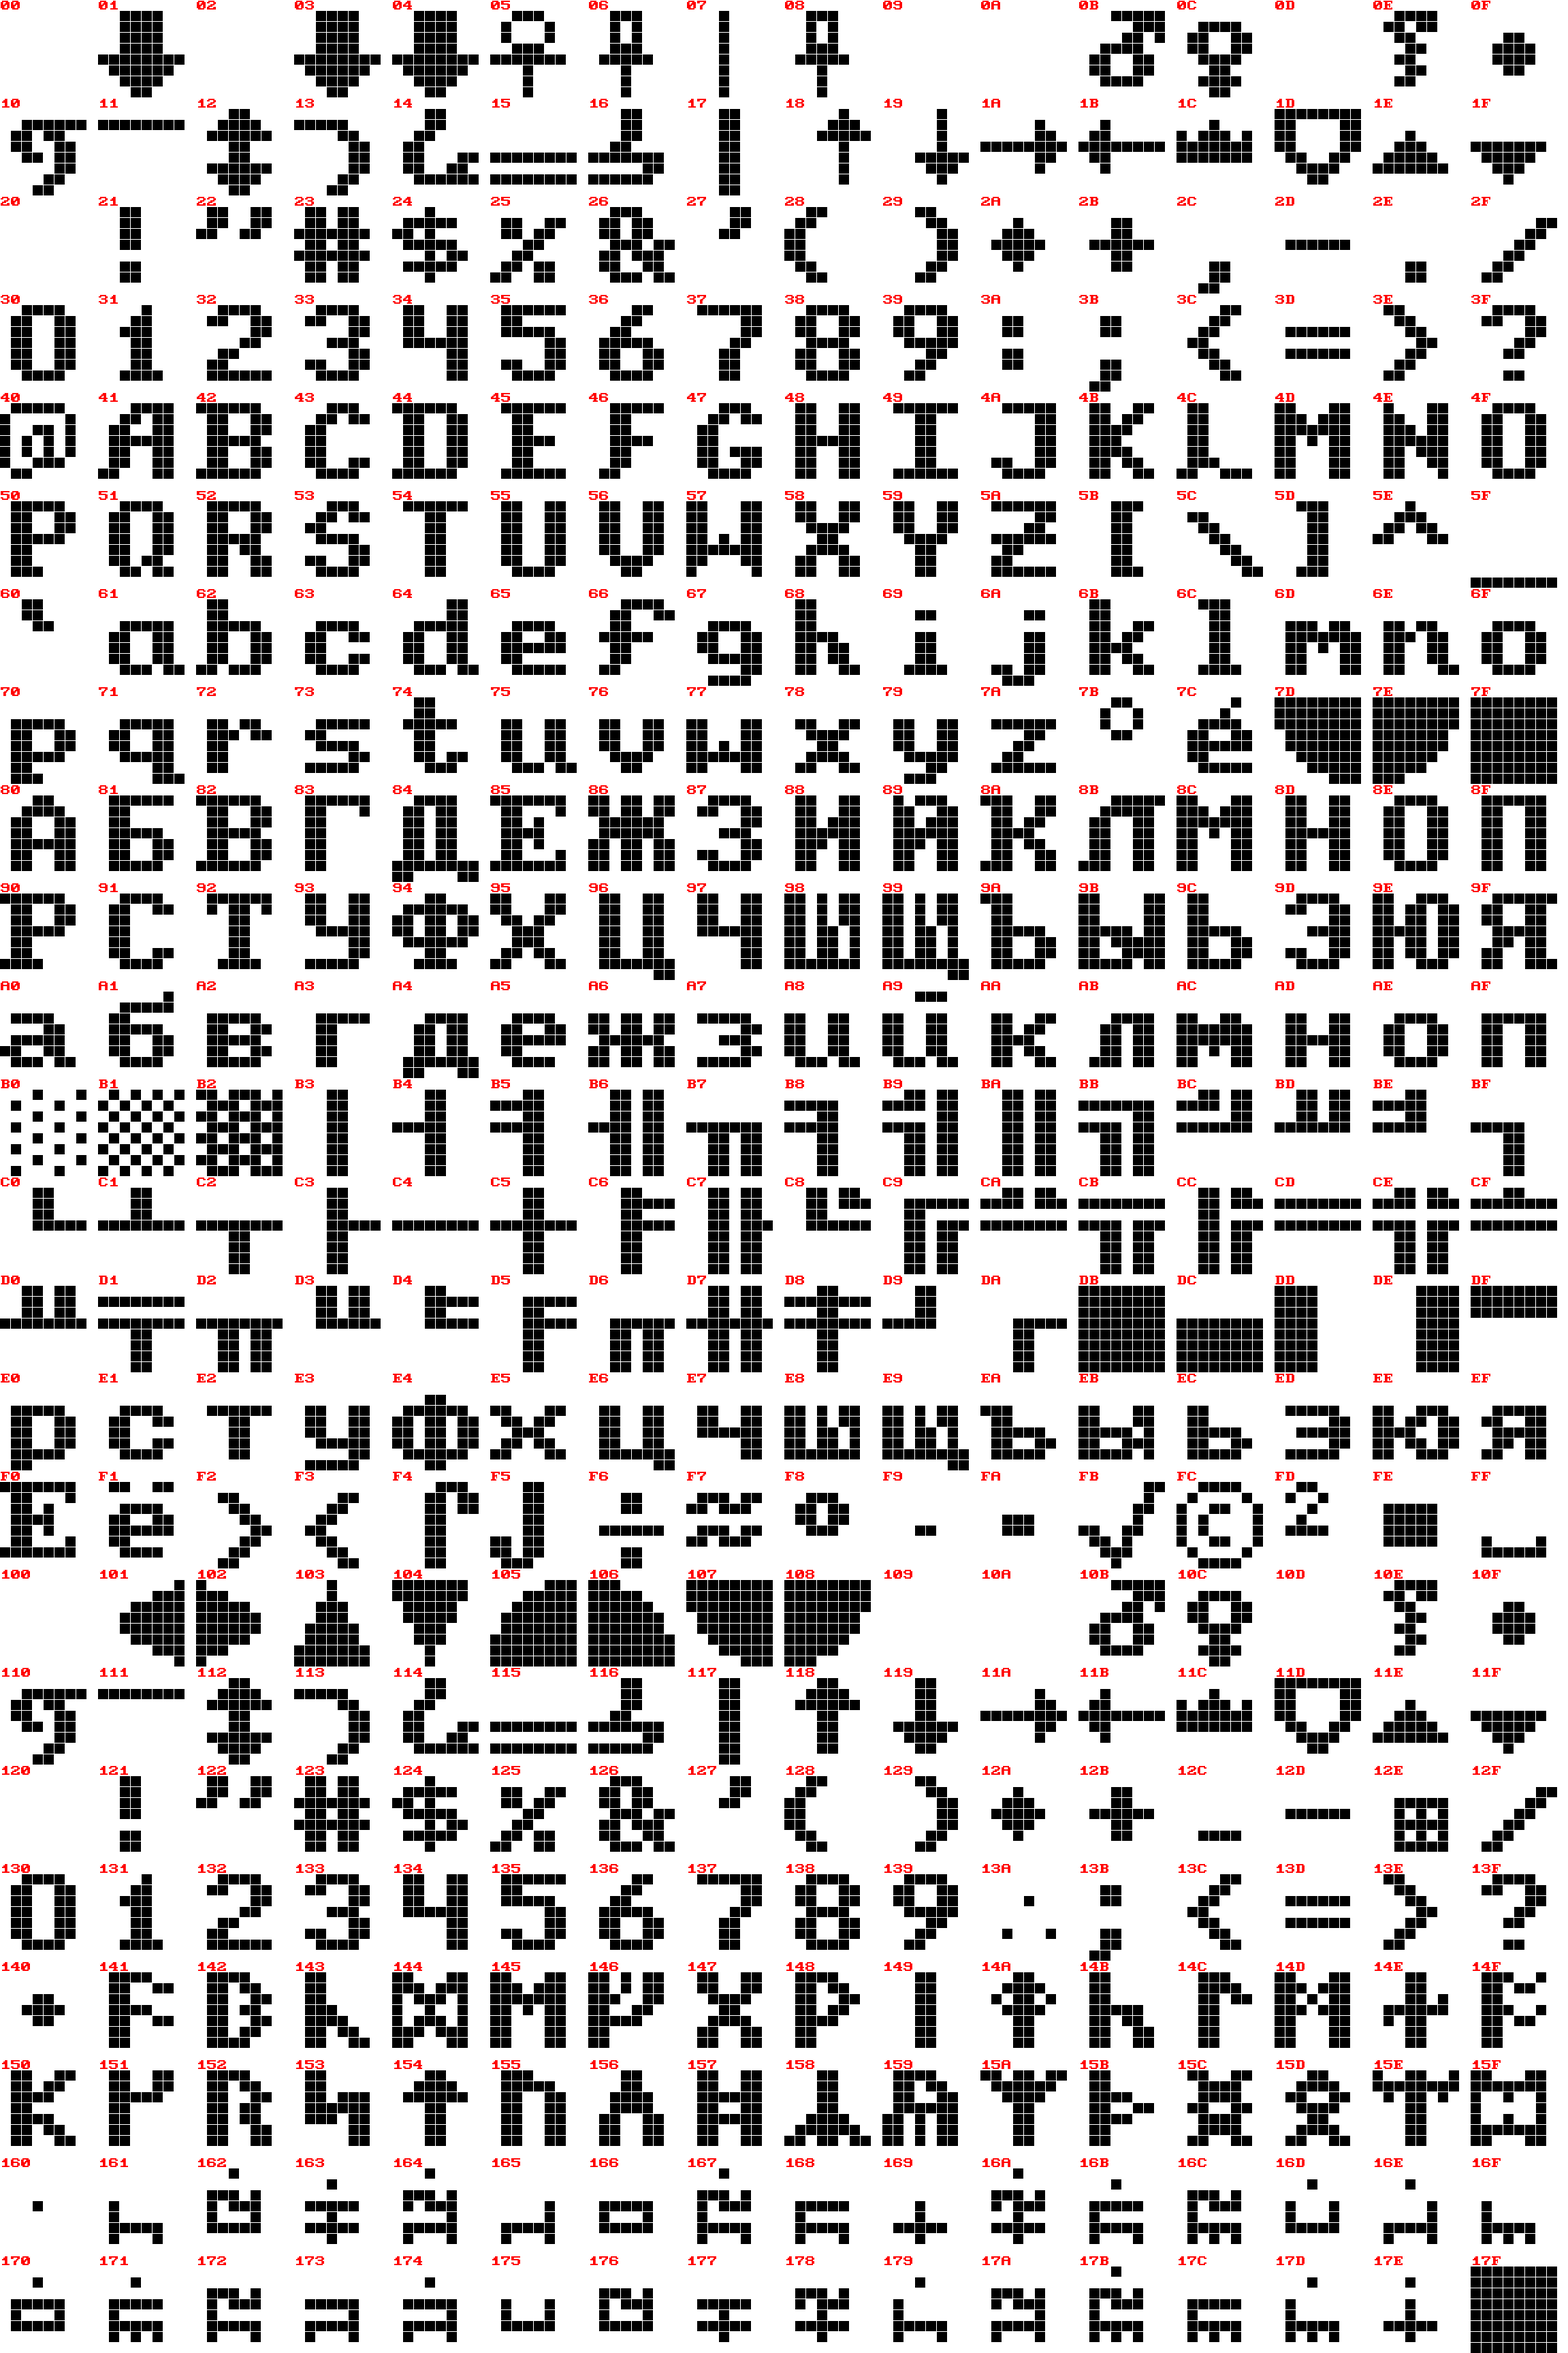
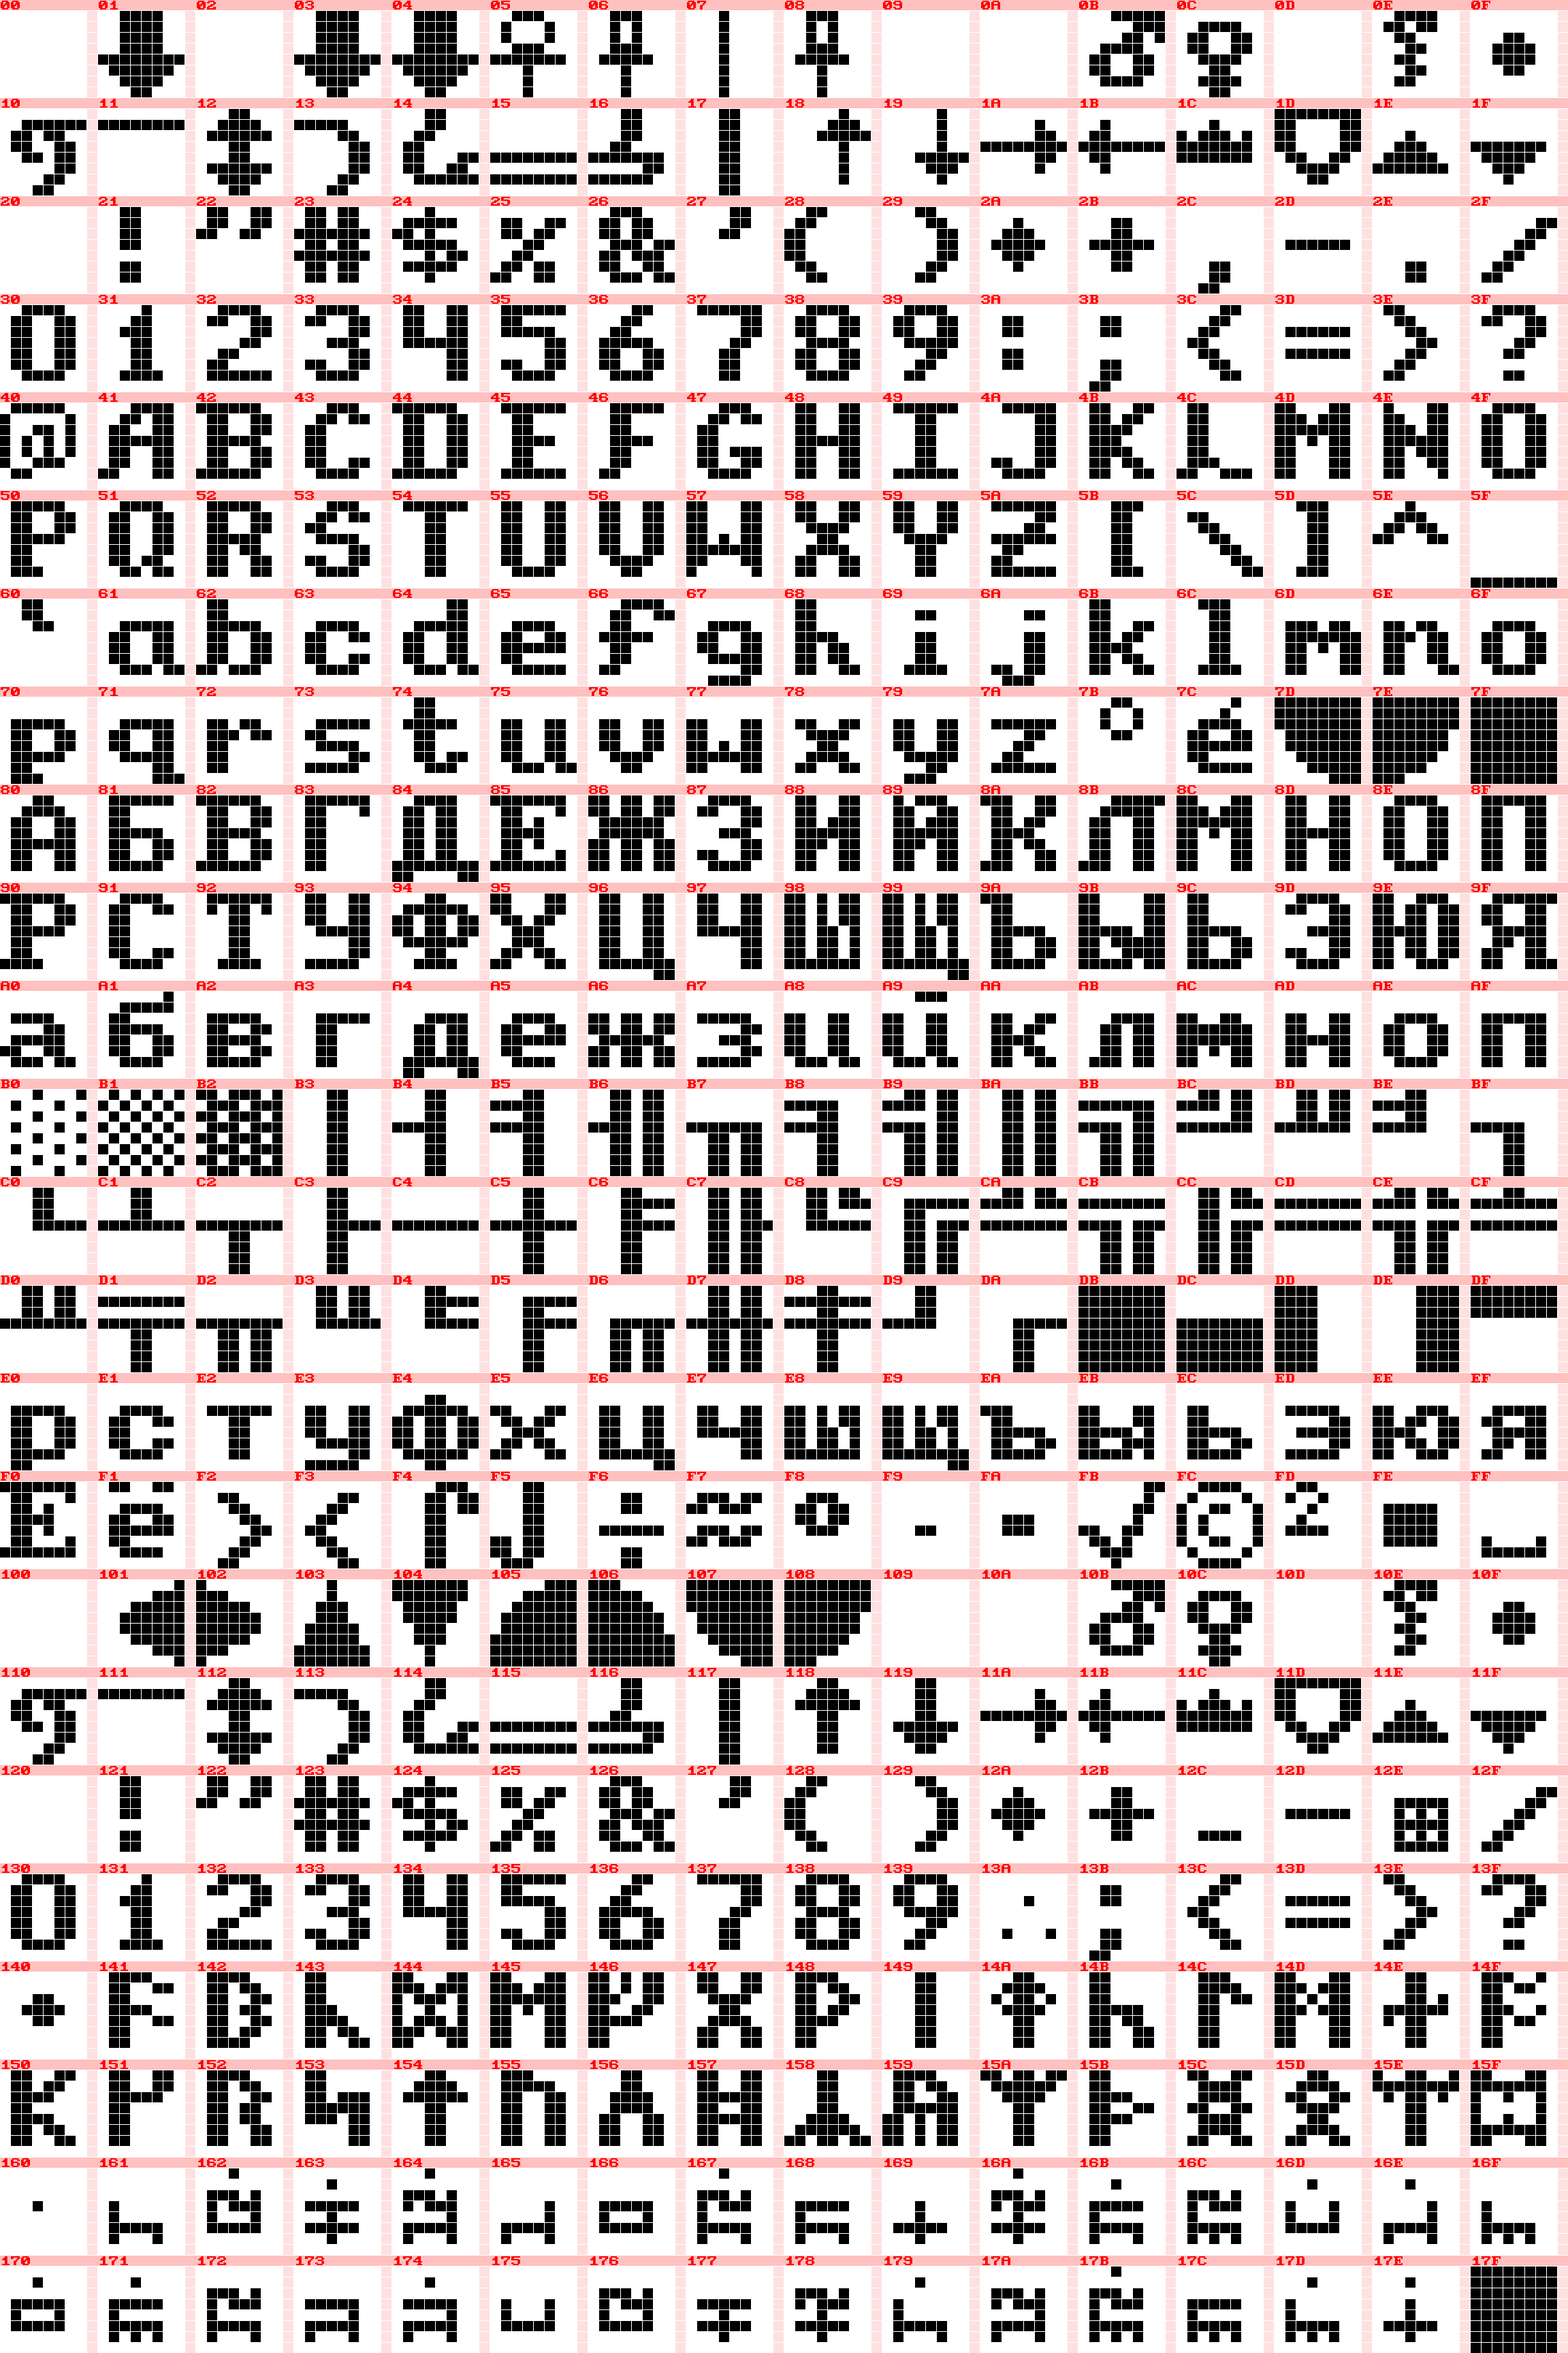
Fixed character tables.

Changed region(s): [[0.0, 0.0, 1.0, 1.0]]

diff --git a/tools/symbols.py b/tools/symbols.py
@@ -43,17 +43,24 @@ for symbol in symbols:
     data = combined_font[symbol*8:symbol*8+8]
     left = 7
     right = 0
-    for i in range(8):
-        r = data[i]
-        for k in range(8):
-            if r & 1 << 7-k:
-                left = min(left, k)
-                right = max(right, k)
-    width = 1 + max(0, right-left+1)
+    if 0xb0 <= symbol < 0xe0:
+        left = 0
+        right = 7
+        start = 0
+        width = 8
+    else:
+        for i in range(8):
+            r = data[i]
+            for k in range(8):
+                if r & 1 << 7-k:
+                    left = min(left, k)
+                    right = max(right, k)
+        start = 1
+        width = 1 + max(0, right-left+1)
     y = bytearray([0]*width*8)
     for row in range(8):
-        for col in range(1, width):
-            k = left + col - 1
+        for col in range(start, width):
+            k = left + col - start
             r = data[row]
             if r & 1 << 7-k:
                 y[row*width+col] = 0x0f

diff --git a/tools/symbol.py b/tools/symbol.py
@@ -21,7 +21,9 @@ def make_image(input_path, output_path, symbol_width):
         if row % 5:
             for column in range(len(lines[row])):
                 for shift, pixels in enumerate(('█▀', '█▄')):
-                    if lines[row][column] in pixels:
+                    if lines[row][column] == '.':
+                        color = '#ffe0e0'
+                    elif lines[row][column] in pixels:
                         color = 'black'
                     else:
                         color = 'white'
@@ -40,7 +42,7 @@ def make_image(input_path, output_path, symbol_width):
                 (row//5*8+row//5)*factor,
                 new_width-1,
                 (row//5*8+row//5+1)*factor-2,
-            ), fill='white')
+            ), fill='#ffc0c0')
             for column in range(0, len(lines[row+1]), symbol_width):
                 draw.text((column*factor+1, (row//5*8+row//5+1)*factor-2), f'{code+column//symbol_width:02X}', fill='red', anchor='ls', font=font)
 

diff --git a/tools/font.py b/tools/font.py
@@ -12,7 +12,7 @@ if ext == '.CH':
     for r in range(len(x) // 128):
         result.append([f'{r*0x10:02X}'])
         for k in range(4):
-            result.append([' ']*width*16)
+            result.append(['.']*width*16)
 
     for i in range(len(x) // 128):
         for k in range(8):
@@ -28,6 +28,8 @@ if ext == '.CH':
                             result[1+k//2+i*5][j*width+l] = '▄'
                         else:
                             result[1+k//2+i*5][j*width+l] = '█'
+                    elif result[1+k//2+i*5][j*width+l] == '.':
+                        result[1+k//2+i*5][j*width+l] = ' '
 
     for l in result:
         print(''.join(l))
